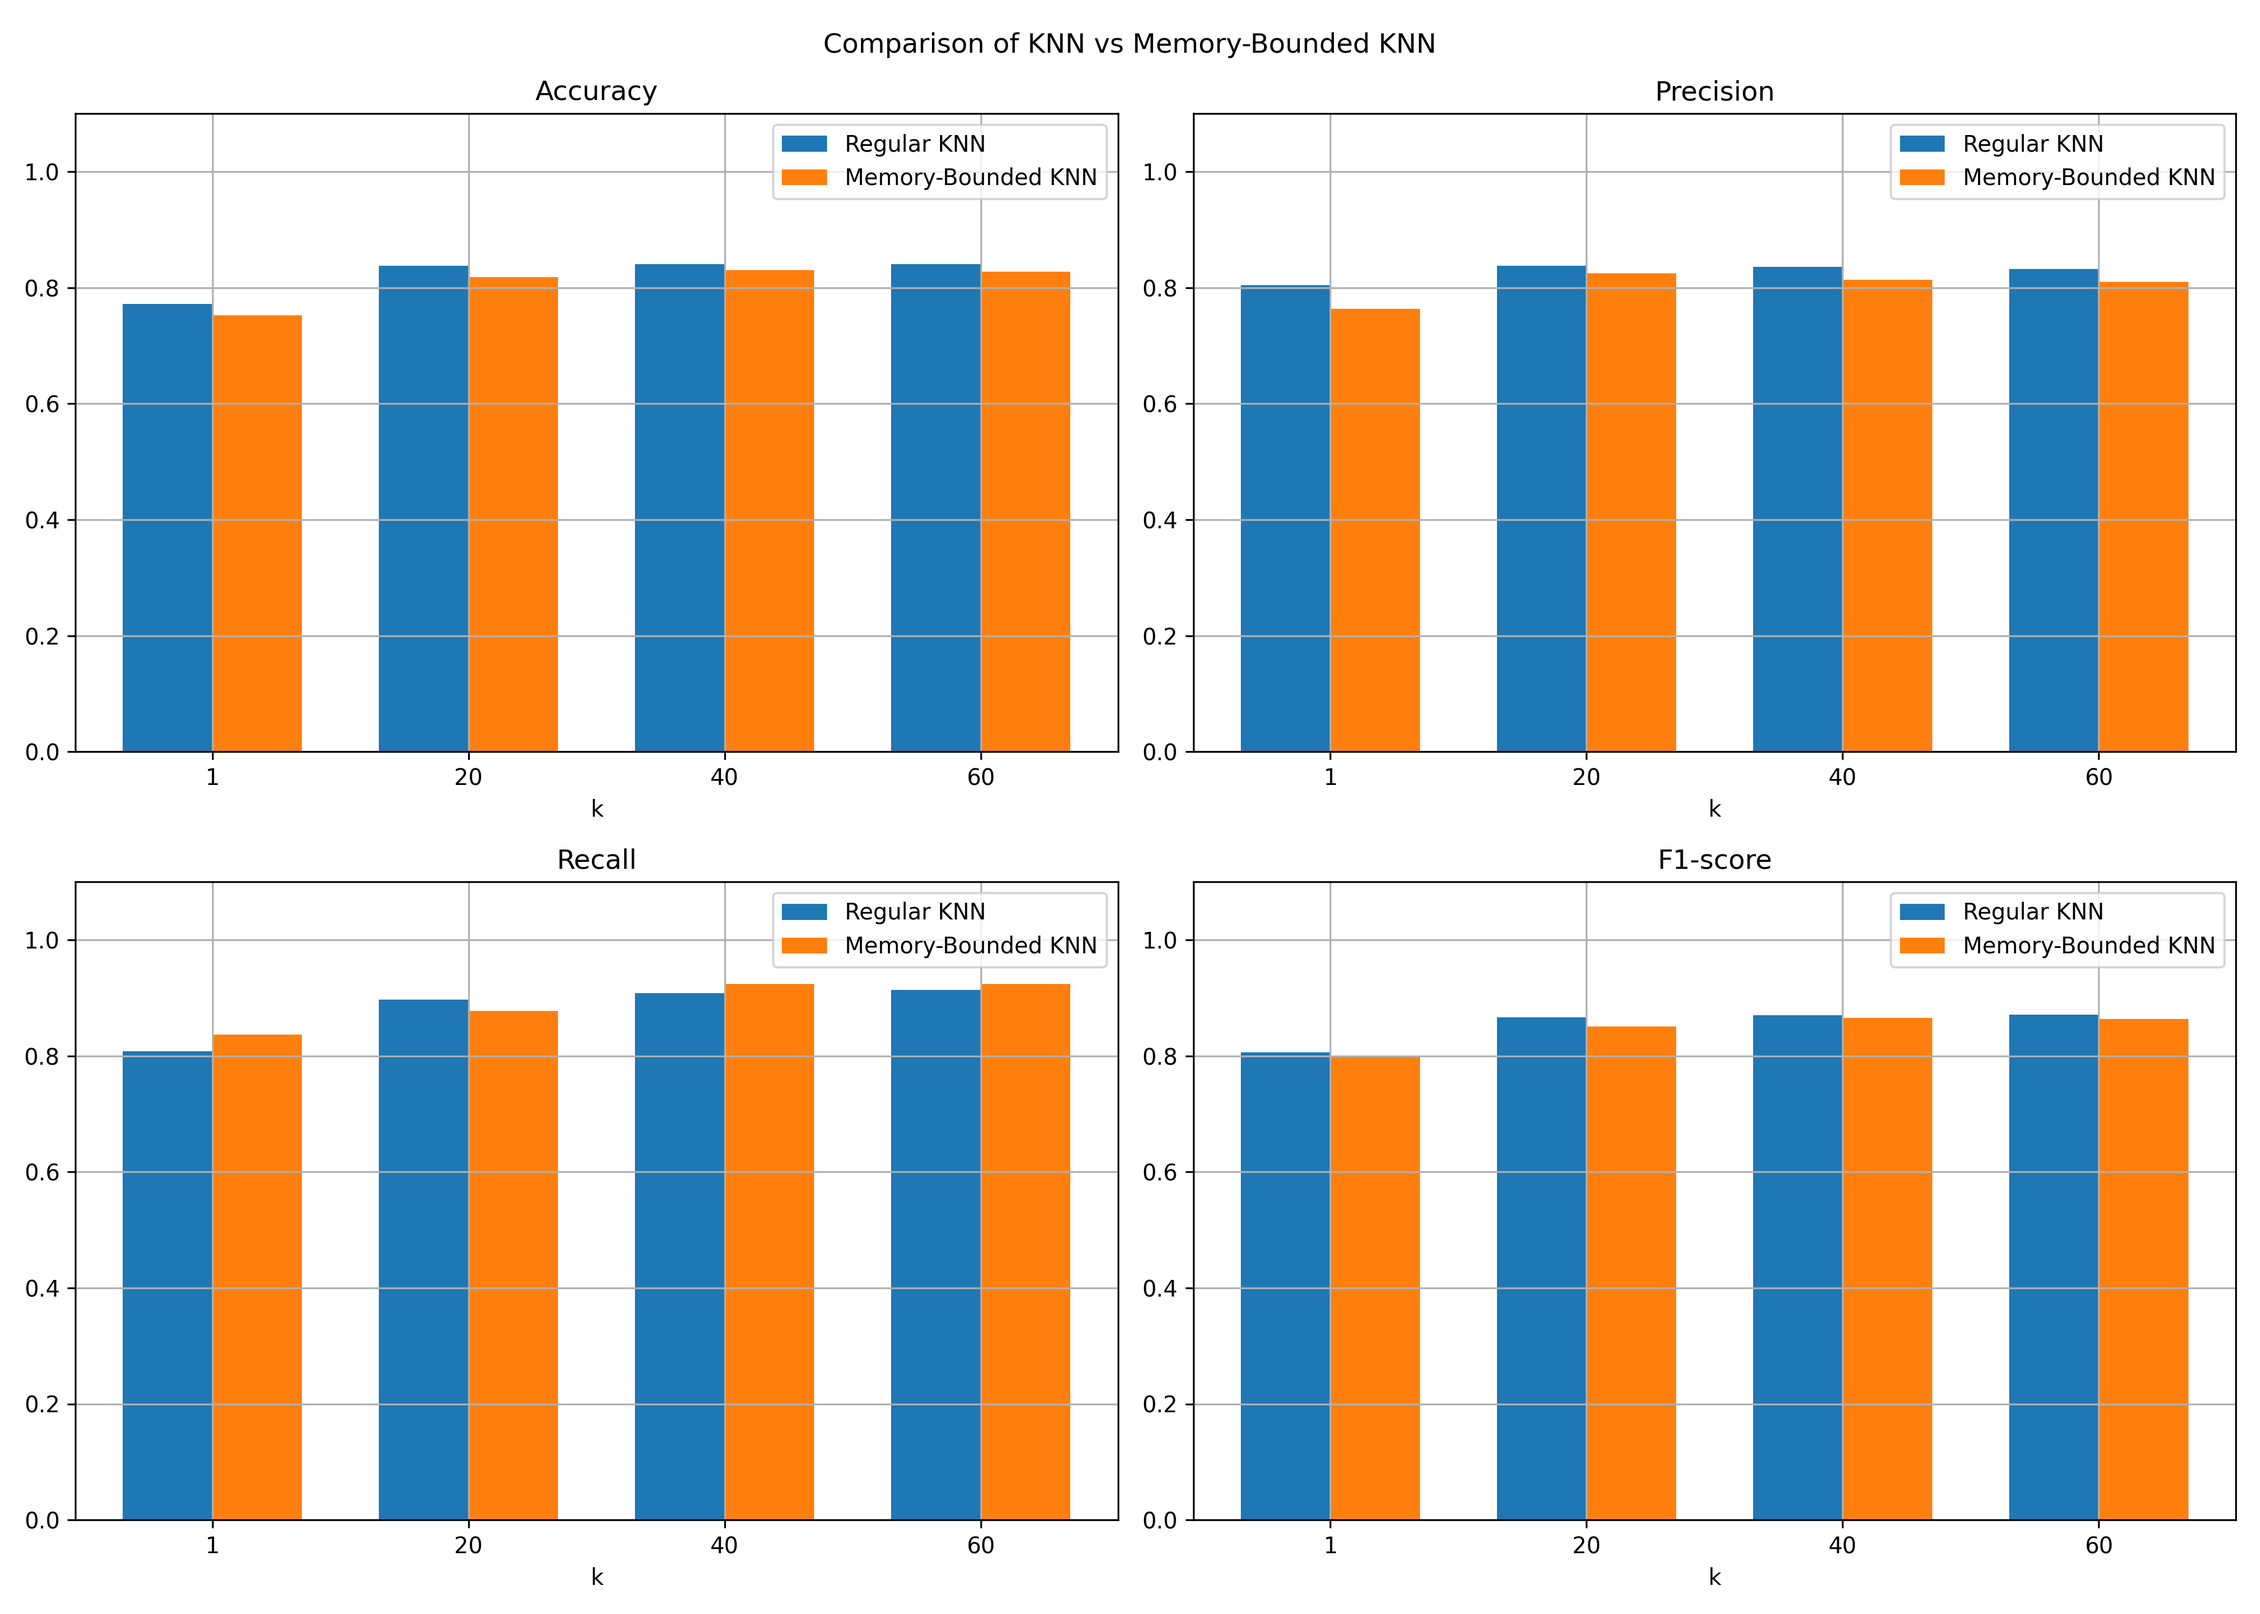
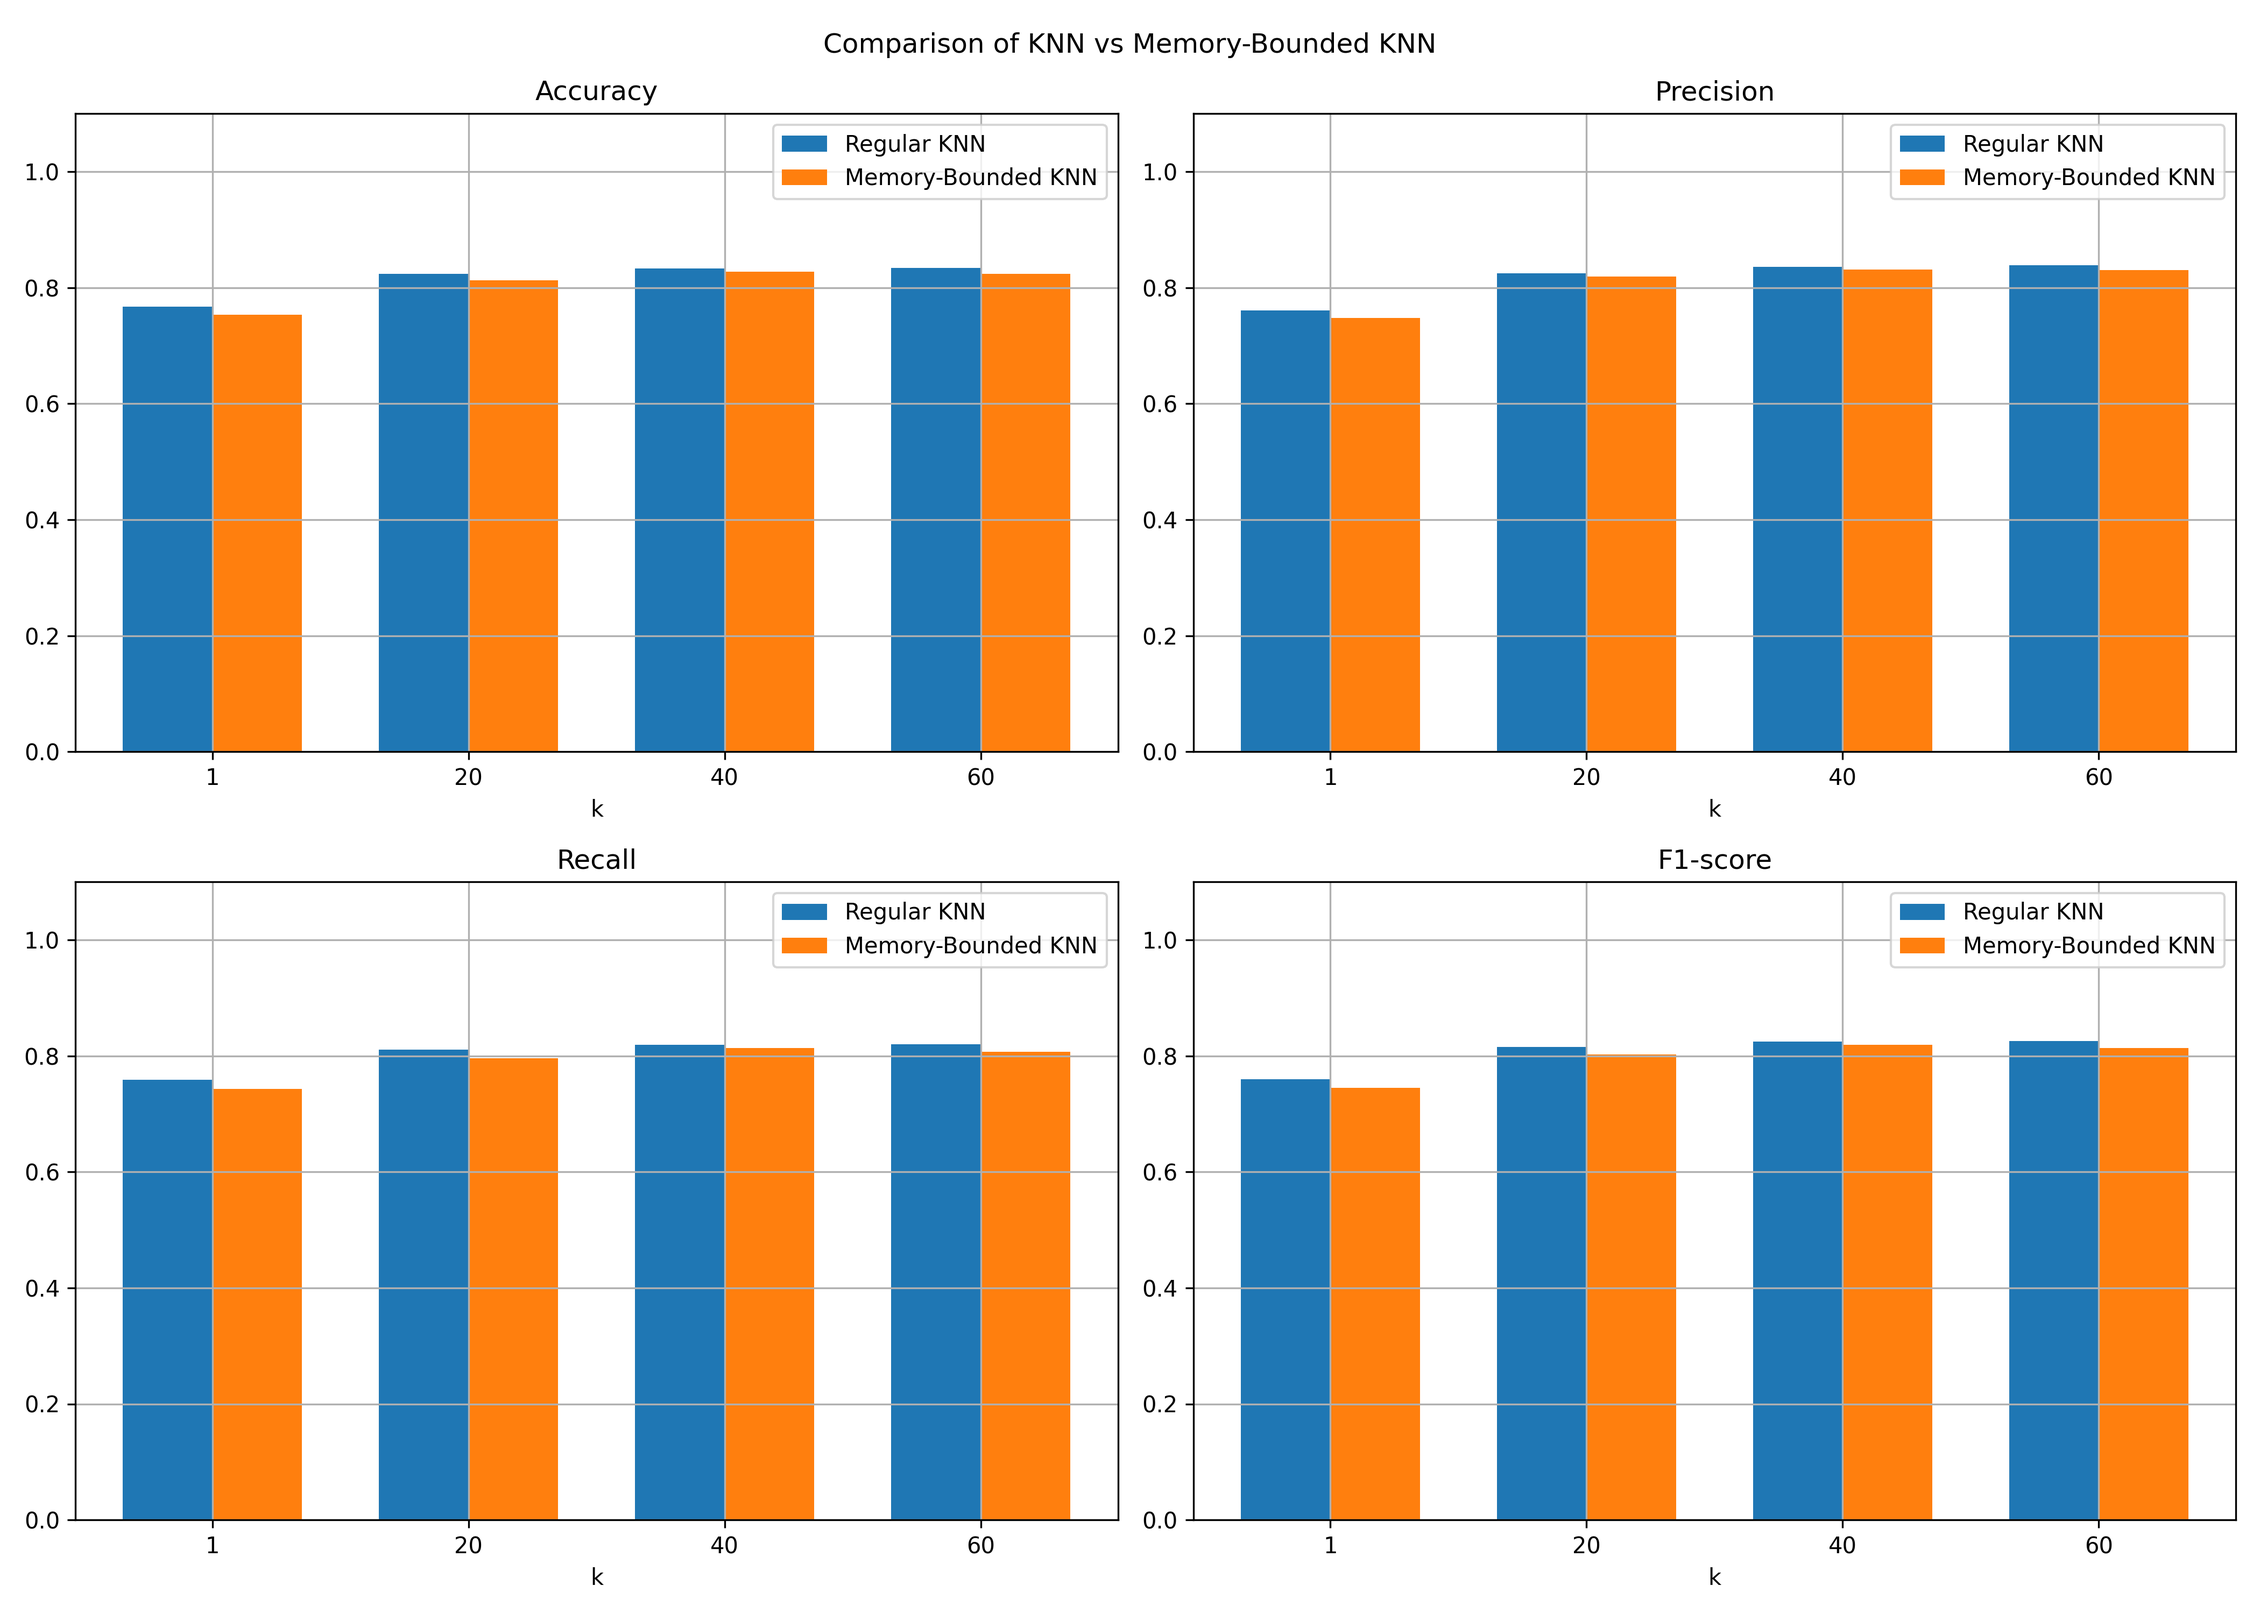
Parallelized fit function

diff --git a/code/KnnMemoryBounded.py b/code/KnnMemoryBounded.py
@@ -2,6 +2,8 @@ from sklearn.neighbors import KNeighborsClassifier
 from sklearn.model_selection import train_test_split
 from sklearn.metrics import classification_report
 from util import *
+from concurrent.futures import ThreadPoolExecutor, as_completed # for parallel computation
+
 
 
 class KNNMemoryBounded:
@@ -25,7 +27,7 @@ class KNNMemoryBounded:
         self.classifier = None
 
 
-    def fit(self, X, y, iterations=10):
+    def fit_sequential(self, X, y, iterations=10):
         """
         Fit the KNNMemoryBounded classifier to the training data.
 
@@ -38,19 +40,50 @@ class KNNMemoryBounded:
         best_model = None
         best_f1_score = 0
 
-        # Note: this can be done in parallel, look into it
         for _ in range(iterations):
             X_train, X_test, y_train, y_test = train_test_split(X, y, train_size=self.buffer_size)
             classifier = KNeighborsClassifier(n_neighbors=self.k, weights=self.weights)
             classifier.fit(X_train, y_train)
             y_pred = classifier.predict(X_test)
 
-            # TODO: think of a way to pick the best model, for now we just use f1-score
             classification_dict = classification_report(y_test, y_pred, output_dict=True)
-            f1_score = classification_dict['1.0']['f1-score']
+
+            f1_score = classification_dict['macro avg']['f1-score']
             if f1_score > best_f1_score:
                 best_f1_score = f1_score
                 best_model = classifier
+
+        self.classifier = best_model
+    
+    def fit(self, X, y, iterations=10):
+        """
+        Fit the KNNMemoryBounded classifier to the training data.
+
+        Parameters:
+        - X: Training data features.
+        - y: Training data labels.
+        - iterations: the number of random subdatasets we check
+        """
+        
+        def evaluate_subset(_):
+            X_train, X_test, y_train, y_test = train_test_split(X, y, train_size=self.buffer_size)
+            classifier = KNeighborsClassifier(n_neighbors=self.k, weights=self.weights)
+            classifier.fit(X_train, y_train)
+            y_pred = classifier.predict(X_test)
+            classification_dict = classification_report(y_test, y_pred, output_dict=True)
+            f1 = classification_dict['macro avg']['f1-score']
+            return f1, classifier
+
+        best_model = None
+        best_f1_score = 0
+
+        with ThreadPoolExecutor() as executor:
+            futures = [executor.submit(evaluate_subset, _) for _ in range(iterations)]
+            for future in as_completed(futures):
+                f1_score, model = future.result()
+                if f1_score > best_f1_score:
+                    best_f1_score = f1_score
+                    best_model = model
 
         self.classifier = best_model
 

diff --git a/code/model.py b/code/model.py
@@ -2,10 +2,11 @@ from sklearn.neighbors import KNeighborsClassifier
 from sklearn.metrics import classification_report
 from knnMemoryBounded import KNNMemoryBounded
 import pandas as pd
-import numpy as np
 from util import *
 import matplotlib.pyplot as plt
+import time
 
+start = time.time()
 
 # Load dataset
 
@@ -21,13 +22,12 @@ from sklearn.preprocessing import StandardScaler
 scaler = StandardScaler()
 X = scaler.fit_transform(X)
 
-
 # Split dataset into training and testing sets
 from sklearn.model_selection import train_test_split
 X_train, X_test, y_train, y_test = train_test_split(X, y, test_size=0.2)
 
 import matplotlib.pyplot as plt
-from sklearn.metrics import classification_report, confusion_matrix as confusionMatrix
+from sklearn.metrics import classification_report
 from sklearn.neighbors import KNeighborsClassifier
 
 # Store metrics for plotting
@@ -55,9 +55,9 @@ for k in k_values:
     print(confusionMatrix(y_test, y_pred))
     print(classification_report(y_test, y_pred))
     report = classification_report(y_test, y_pred, output_dict=True)
-    f1 = report['1.0']['f1-score']
-    prec = report['1.0']['precision']
-    rec = report['1.0']['recall']
+    f1 = report['macro avg']['f1-score']
+    prec = report['macro avg']['precision']
+    rec = report['macro avg']['recall']
     print(f"F1 score = {f1}")
     print('%' * 40)
 
@@ -77,9 +77,9 @@ for k in k_values:
     print(confusionMatrix(y_test, y_pred))
     print(classification_report(y_test, y_pred))
     report = classification_report(y_test, y_pred, output_dict=True)
-    f1 = report['1.0']['f1-score']
-    prec = report['1.0']['precision']
-    rec = report['1.0']['recall']
+    f1 = report['macro avg']['f1-score']
+    prec = report['macro avg']['precision']
+    rec = report['macro avg']['recall']
     print(f"F1 score = {f1}")
     print('-' * 40)
 
@@ -89,7 +89,8 @@ for k in k_values:
     metrics['recall_memory'].append(rec)
     metrics['f1_memory'].append(f1)
 
-# Plotting
+# Plot results
+
 bar_width = 0.35
 x = range(len(metrics['k']))
 
@@ -115,5 +116,6 @@ for ax, title, keys in zip(axs.ravel(), titles, metric_keys):
 
 plt.suptitle('Comparison of KNN vs Memory-Bounded KNN')
 plt.tight_layout()
-plt.savefig('plots/knn_comparison.png', dpi=300)  # You can specify a full path if needed
+plt.savefig('plots/knn_comparison.png', dpi=300)
 plt.show()
+print(time.time() - start)

diff --git a/code/dataCleaner.py b/code/dataCleaner.py
@@ -2,7 +2,6 @@ import pandas as pd
 import numpy as np
 from sklearn.experimental import enable_iterative_imputer  # noqa
 from sklearn.impute import IterativeImputer
-from sklearn.ensemble import RandomForestRegressor
 
 """
 This script is used to clean the dataset for the student depression prediction model.
@@ -33,7 +32,7 @@ for column in df.columns:
 df.replace('Others', np.nan, inplace=True)
 df.replace('?', np.nan, inplace=True)
 missing_values = df.isnull().sum()
-print("Missing values in each column:")
+print("Missing values in each column before imputation:")
 print(missing_values[missing_values > 0])
 
 
